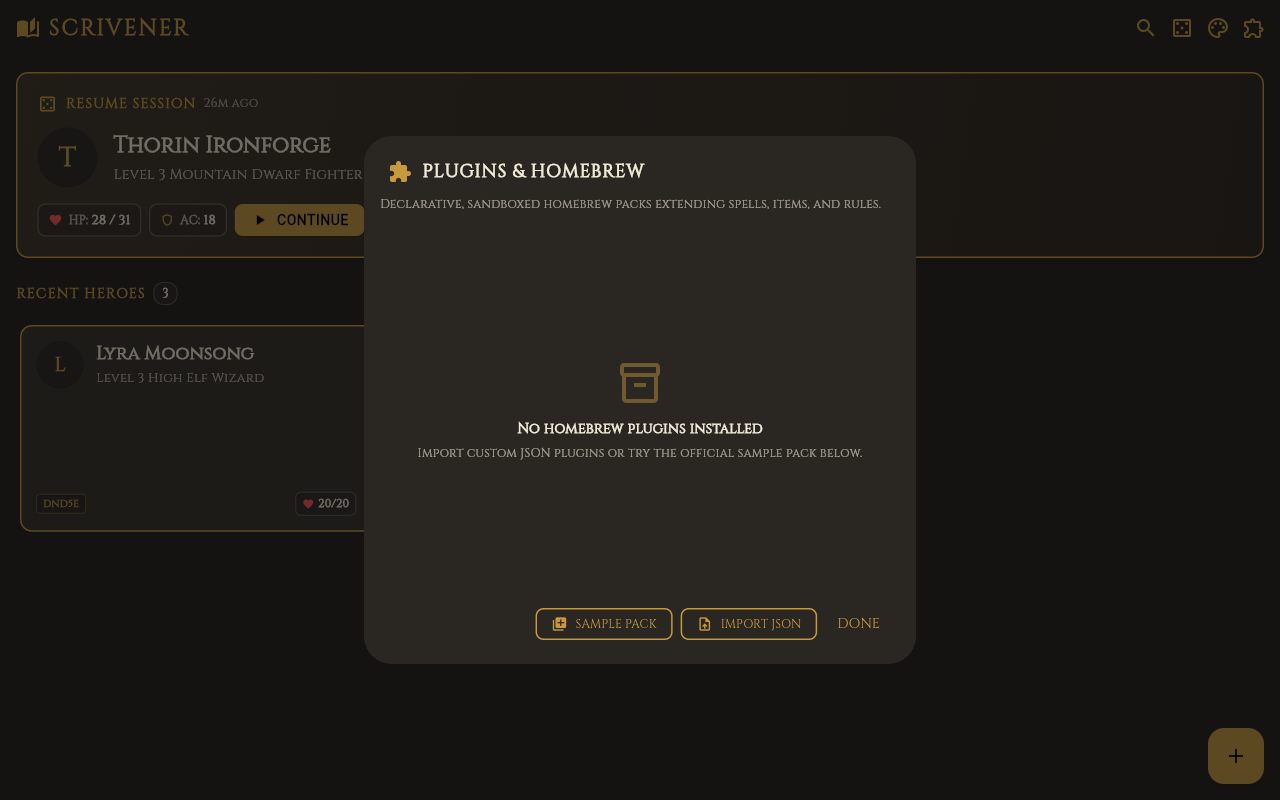
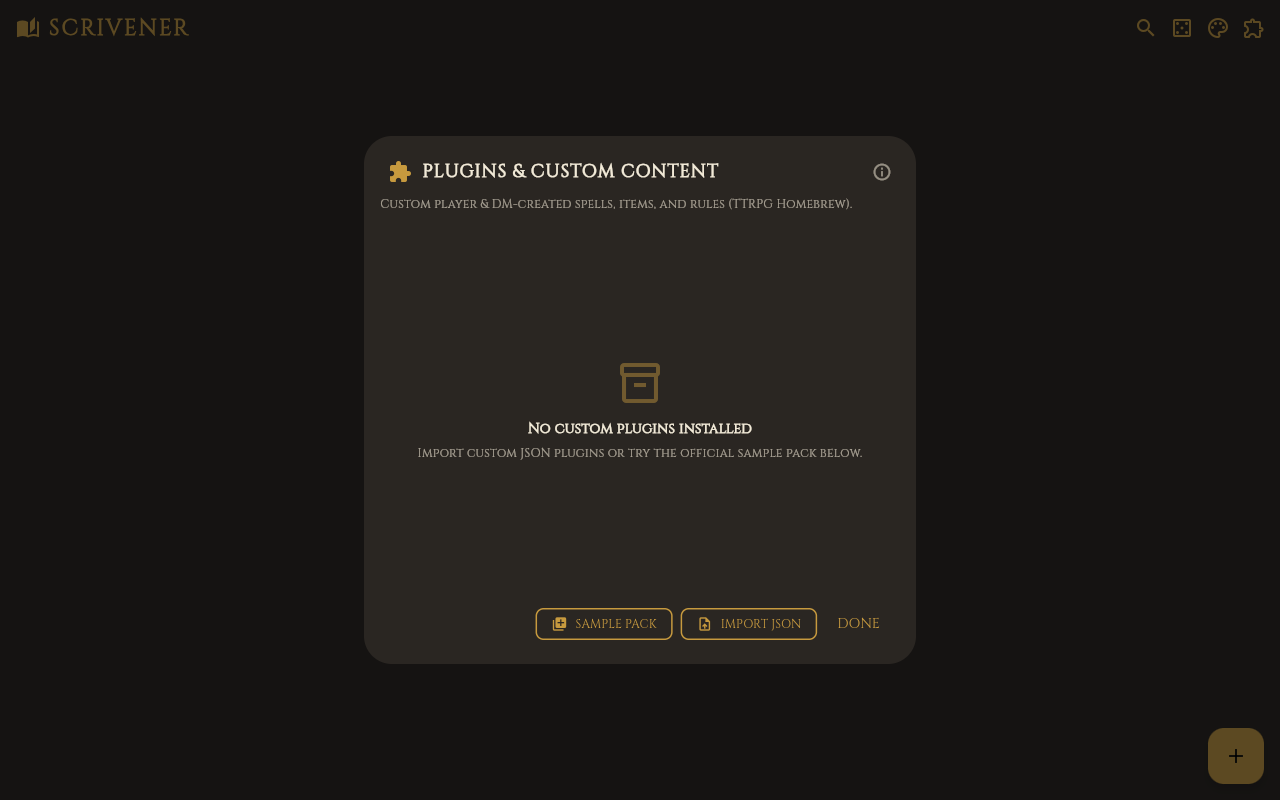
docs: clarify homebrew terminology as custom TTRPG content in plugins UI and documentation

diff --git a/lib/features/plugins/presentation/plugins_dialog.dart b/lib/features/plugins/presentation/plugins_dialog.dart
@@ -95,9 +95,17 @@ class PluginsDialog extends ConsumerWidget {
           const SizedBox(width: 10),
           const Expanded(
             child: Text(
-              'PLUGINS & HOMEBREW',
+              'PLUGINS & CUSTOM CONTENT',
               style: TextStyle(fontSize: 18, fontWeight: FontWeight.bold, letterSpacing: 1),
               overflow: TextOverflow.ellipsis,
+            ),
+          ),
+          Tooltip(
+            message: "In tabletop gaming, 'Homebrew' refers to custom, user-created game rules, spells, and items—not the command-line package manager.",
+            child: Icon(
+              Icons.info_outline,
+              size: 20,
+              color: theme.colorScheme.onSurface.withAlpha(140),
             ),
           ),
         ],
@@ -112,7 +120,7 @@ class PluginsDialog extends ConsumerWidget {
                 crossAxisAlignment: CrossAxisAlignment.start,
                 children: [
                   Text(
-                    'Declarative, sandboxed homebrew packs extending spells, items, and rules.',
+                    'Custom player & DM-created spells, items, and rules (TTRPG Homebrew).',
                     style: TextStyle(fontSize: 12, color: theme.colorScheme.onSurface.withAlpha(160)),
                   ),
                   const SizedBox(height: 12),
@@ -125,7 +133,7 @@ class PluginsDialog extends ConsumerWidget {
                                 Icon(Icons.inventory_2_outlined, size: 48, color: theme.colorScheme.primary.withAlpha(120)),
                                 const SizedBox(height: 12),
                                 const Text(
-                                  'No homebrew plugins installed',
+                                  'No custom plugins installed',
                                   style: TextStyle(fontWeight: FontWeight.bold),
                                 ),
                                 const SizedBox(height: 6),

diff --git a/test/features/plugins/plugin_loader_test.dart b/test/features/plugins/plugin_loader_test.dart
@@ -128,8 +128,8 @@ void main() {
       await tester.tap(find.text('Open Plugins'));
       await tester.pumpAndSettle();
 
-      expect(find.text('PLUGINS & HOMEBREW'), findsOneWidget);
-      expect(find.text('No homebrew plugins installed'), findsOneWidget);
+      expect(find.text('PLUGINS & CUSTOM CONTENT'), findsOneWidget);
+      expect(find.text('No custom plugins installed'), findsOneWidget);
       expect(find.text('SAMPLE PACK'), findsOneWidget);
 
       // Tap SAMPLE PACK to install
@@ -145,7 +145,7 @@ void main() {
       await tester.tap(find.byIcon(Icons.delete_outline));
       await tester.pumpAndSettle();
 
-      expect(find.text('No homebrew plugins installed'), findsOneWidget);
+      expect(find.text('No custom plugins installed'), findsOneWidget);
     });
   });
 }

diff --git a/docs/plugins/plugin-architecture.md b/docs/plugins/plugin-architecture.md
@@ -2,6 +2,10 @@
 
 Scrivener provides an extensible, declarative plugin architecture designed specifically for the security and reliability demands of modern applications. This guide explains the core principles behind Scrivener's plugin system and how homebrew content is integrated into the local database.
 
+> [!NOTE] What Does "Homebrew" Mean in TTRPGs?
+> In tabletop roleplaying games like D&D and Pathfinder, **"homebrew"** refers to custom, unofficial content created by players or Game Masters—such as original spells, magical weapons, subclasses, or house rules. 
+> It is completely separate from and unrelated to the macOS/Linux `brew` package manager.
+
 ---
 
 ## 1. Declarative, Sandboxed Principles
